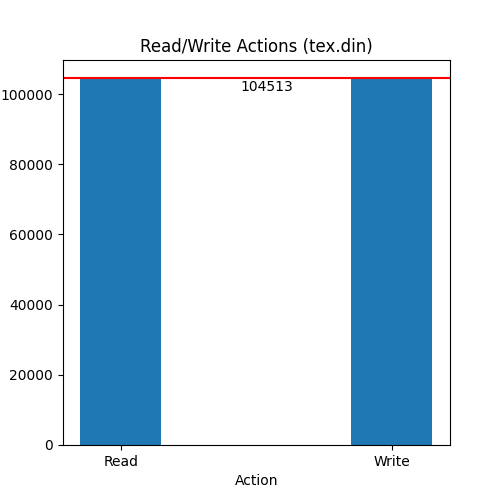
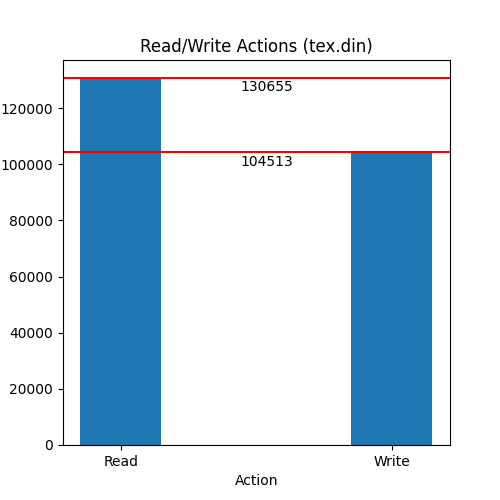
fixed index value typo. Updated graphic

diff --git a/scripts/tex_bar.py b/scripts/tex_bar.py
@@ -1,11 +1,11 @@
 import pandas as pd
 import matplotlib.pyplot as plt
 
-df = pd.read_fwf('tex.txt', header=None)
+df = pd.read_fwf('data/tex.txt', header=None)
 df.rename(columns={0:'Action',1:'Hex'}, inplace=True)
 
 actions = ['Read', 'Write']
-actions_values = [df['Action'].value_counts()[1], df['Action'].value_counts()[1]]
+actions_values = [df['Action'].value_counts()[0], df['Action'].value_counts()[1]]
 
 fig, ax = plt.subplots(figsize=(5,5))
 plt.bar(actions, actions_values, .3)
@@ -13,10 +13,15 @@ plt.ylabel('Occurence')
 plt.xlabel('Action')
 plt.title('Read/Write Actions (tex.din)')
 ax.axhline(104513, c='r')
+ax.axhline(130655, c='r')
 ax.annotate('104513',
+            xy=(.48, .69), xycoords='figure fraction',
+            horizontalalignment='left', verticalalignment='top',
+            fontsize=10)
+ax.annotate('130655',
             xy=(.48, .84), xycoords='figure fraction',
             horizontalalignment='left', verticalalignment='top',
             fontsize=10)
-plt.savefig('Hw1_bar_tex')
+plt.savefig('images/Hw1_bar_tex.png')
 #plt.show()
 #print(actions_values)
